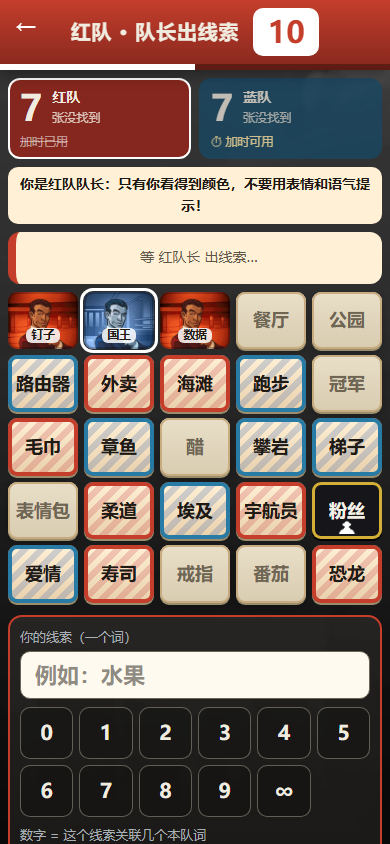
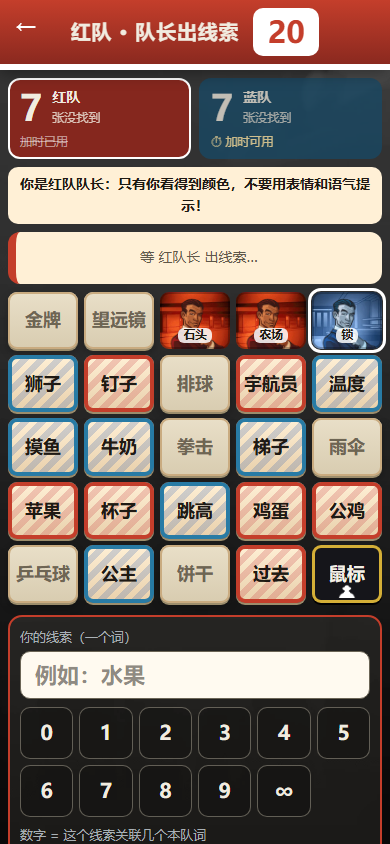
行动代号：补齐新版官方美术并验证手机横竖屏特效

diff --git a/scripts/verify-cn-browsers.ts b/scripts/verify-cn-browsers.ts
@@ -108,6 +108,9 @@ try {
   }));
   assert.ok((evidence.at(-1) as { fourCharacterWordFits: boolean }).fourCharacterWordFits, 'Four-character word clipped');
   for (let i = 0; i < 4; i++) await shot(pages[i], ["red-captain", "red-operative", "blue-captain", "blue-operative"][i]);
+  await pages[1].setViewportSize({ width: 360, height: 780 });
+  await privacy(); await shot(pages[1], "phone-360-board");
+  await pages[1].setViewportSize({ width: 390, height: 844 });
   const before = await pages[1].getByTestId("cn-role").innerText();
   await pages[1].reload(); await pages[1].getByTestId("cn-role").waitFor();
   assert.equal(await pages[1].getByTestId("cn-role").innerText(), before);
@@ -126,13 +129,31 @@ try {
   const timed = await status();
   await pages[0].locator(".cn-timer.hurry").waitFor({ timeout: 22000 });
   await shot(pages[0], "last-ten-seconds");
-  await wait(async () => (await status()) !== timed, 16000);
+  await wait(async () => (await status()) !== timed, 25000);
   t = await clue("inf"); await privacy(); await reveal(t, "neutral");
   await wait(async () => (await status()) !== t);
   t = await clue("inf");
   await wait(async () => (await status()) !== t, 34000);
-  t = await clue("inf"); await reveal(t, "assassin");
+  t = await clue("inf");
+  const winner = await operative(t === "red" ? "blue" : "red");
+  await reveal(t, "assassin");
   for (const p of pages) await p.getByTestId("cn-result").waitFor();
+  await pages[1].getByTestId("cn-fx-assassin").waitFor();
+  await shot(pages[1], "phone-assassin-fx");
+  await winner.getByTestId("cn-fx-party").waitFor();
+  const winnerViewport = winner.viewportSize()!;
+  await winner.setViewportSize({ width: 360, height: 780 });
+  await shot(winner, "phone-360-victory-fx");
+  await winner.setViewportSize({ width: 844, height: 390 });
+  await shot(winner, "phone-landscape-victory-fx");
+  const sub = (await winner.locator('.cn-fx .cn-fx-sub').boundingBox())!;
+  const tap = (await winner.locator('.cn-fx .cn-fx-tap').boundingBox())!;
+  assert.ok(sub.y + sub.height + 4 < tap.y, "Landscape result text overlaps continue hint");
+  await winner.setViewportSize(winnerViewport);
+  for (const p of pages) {
+    const fx = p.locator('.cn-fx');
+    if (await fx.count()) await fx.click();
+  }
   await shot(pages[1], "result"); await click(pages[0], "cn-next");
   await pages[0].getByTestId("cn-mode-random").waitFor(); await click(pages[0], "cn-mode-random");
   await click(pages[0], "cn-start");
@@ -141,6 +162,10 @@ try {
   const goals = await (await captain(t)).locator(`.cn-card[data-role="${t}"]`).count();
   for (let i = 0; i < goals; i++) await reveal(t, t);
   for (const p of pages) await p.getByTestId("cn-result").waitFor();
+  for (const p of pages) {
+    const fx = p.locator('.cn-fx');
+    if (await fx.count()) await fx.click();
+  }
   await shot(pages[1], "random-captain-win");
   assert.deepEqual(errors, []);
   writeFileSync(`${out}/evidence.json`, JSON.stringify(evidence, null, 2));

diff --git a/apps/web/src/cn/cn.css b/apps/web/src/cn/cn.css
@@ -1155,3 +1155,13 @@ html.cn-shake body {
   .cn-fb, .cn-fx, .cn-fx *, html.cn-shake body { animation: none !important; }
   .cn-confetti { display: none; }
 }
+
+/* 手机横屏：给底部继续提示留出空间，避免与结算说明重叠。 */
+@media (max-height: 500px) and (orientation: landscape) {
+  .cn-fx { padding: 12px 20px 48px; }
+  .cn-fx .cn-fx-emoji { font-size: 48px; line-height: 1.15; }
+  .cn-fx .cn-fx-big { font-size: 72px; }
+  .cn-fx .cn-fx-sub { font-size: 16px; margin-top: 10px; }
+  .cn-fx .cn-fx-skull { font-size: 64px; line-height: 1.1; }
+  .cn-fx .cn-fx-tap { bottom: calc(10px + env(safe-area-inset-bottom)); }
+}

diff --git a/docs/handoff/行动代号_50a新版美术上线_2026-10-21.md b/docs/handoff/行动代号_50a新版美术上线_2026-10-21.md
@@ -1,0 +1,211 @@
+# 行动代号：50a023c 新版美术接入与手机验收（2026-10-21）
+
+基线：已上线 `50a023c`。当前分支已合入该版本与最新 main，不回退 3 分钟出线索 / 3 分钟猜词 / 一张 +1 分钟加时卡、最后 20 秒提示、胜利/刺客特效、音效震动与翻牌反馈。
+
+## 变更
+
+- 接入已完成并经用户认可的官方漫画特工、路人、刺客与对应场景、城市背景、大厅封面；共 12 个 WebP，175986 字节，全部本地提供。
+- 来源 URL、原尺寸、字节数与 SHA-256：`apps/web/public/assets/codenames/official-sources.json`。用户已在对话允许采用原游戏美术。
+- 保留手机布局、字号、按钮位置及玩法。相对 50a023c，产品改动只在 cn.css 美术与短屏适配，以及 Codenames.tsx 结算后「所有身份已公开」的说明。
+- 实测发现横屏胜利说明与继续提示重叠，增加高度 ≤500px 横屏的图标/文字尺寸和间距规则；新增边界断言证实不重叠。
+- 规则引擎、服务器、协议相对本次基线无修改。DEFAULT_TIMING 保持 180000/180000/60000。
+- 浏览器脚本兼容新版结束特效，并在游戏结束前记住胜方身份；不在已统一显示结算文案后寻找「猜词队员」。
+
+## 手机证据
+
+`docs/codenames/screens/`：4 身份原有截图及 phone-360-board.png、phone-assassin-fx.png、phone-360-victory-fx.png、phone-landscape-victory-fx.png。覆盖 360×780、390×844 与 844×390；截图使用 screenshot-check 非空白像素验证。均为 Chromium 模拟视口，不冒称真机 Safari。
+
+## 验收结果
+
+- build / typecheck：退出码 0。
+- 全仓：384/384（单 worker，20 秒单项限制，未删改断言）。
+- CN 协议：12 组通过；CN 浏览器：4 独立会话、2 局，隐私、刷新、两种超时、加时、两种队长及两种结束均通过。
+- DBD capture：197/197；本工作目录 5174 下手机操作 64/64；三个回放事件/哈希一致。
+- 合并较早 main 时已完成 LAN 协议/两局五浏览器/3/4/5 人大厅，MA 2/3/4 人各四场。最新 50a023c 本身不变更这些规则与服务器；本次无新 MA/DBD 产品修改。
+- 首次新增 FX 脚本在结束后查找身份失败，修正后完整两局复跑通过。失败记录保留在本机 output/cn-art-50a/browsers.txt；最终结果见下方。
+
+## 发布
+
+用户此前已授权加入现有桌游网站并确认当时无人玩。此次发布前再次读取线上健康检查：版本 50a023c，rooms/maRooms/cnRooms 均为 0。
+本报告提交时准备部署；发布后会检查正式 /api/health 版本、四人开局、官方美术、隐私和完整结束，截图保存 screens/live/。
+
+## 真实输出
+
+### 构建
+
+```text
+> dbd-boardgame-private@0.2.2 build
+> vite build --config apps/web/vite.config.ts
+
+vite v8.3.4 building client environment for production...
+transforming...
+✓ 119 modules transformed.
+rendering chunks...
+computing gzip size...
+dist/web/index.html                            0.66 kB │ gzip:   0.40 kB
+dist/web/assets/MobilePreview-BbSlgr20.css     4.64 kB │ gzip:   1.54 kB
+dist/web/assets/Codenames-BNkVOBEB.css        18.73 kB │ gzip:   4.89 kB
+dist/web/assets/MagicalAthlete-CHOwTzz3.css   28.30 kB │ gzip:   6.67 kB
+dist/web/assets/index-DhkZdj65.css            74.68 kB │ gzip:  17.90 kB
+dist/web/assets/Codenames-BwjqeYdd.js         26.46 kB │ gzip:   9.53 kB
+dist/web/assets/MagicalAthlete-B11qnon8.js    55.47 kB │ gzip:  19.26 kB
+dist/web/assets/MobilePreview-DrF-oY0R.js     66.17 kB │ gzip:   7.08 kB
+dist/web/assets/index-Cb2Z0m_Q.js            849.48 kB │ gzip: 194.03 kB
+
+✓ built in 1.74s
+[plugin builtin:vite-reporter] 
+(!) Some chunks are larger than 500 kB after minification. Consider:
+- Using dynamic import() to code-split the application
+- Use build.rolldownOptions.output.codeSplitting to improve chunking: https://rolldown.rs/reference/OutputOptions.codeSplitting
+- Adjust chunk size limit for this warning via build.chunkSizeWarningLimit.
+```
+
+### 类型
+
+```text
+> dbd-boardgame-private@0.2.2 typecheck
+> tsc --noEmit
+```
+
+### 384 测试
+
+```text
+> dbd-boardgame-private@0.2.2 test
+> vitest run --maxWorkers=1 --testTimeout=20000
+
+
+ RUN  v5.0.5 E:/DBD-Codenames-Codex
+
+
+ Test Files  20 passed (20)
+      Tests  384 passed (384)
+   Start at  15:21:30
+   Duration  142.45s (tests 99%, import 1%)
+```
+
+### CN 浏览器
+
+```text
+> dbd-boardgame-private@0.2.2 verify:cn-browsers
+> tsx scripts/verify-cn-browsers.ts
+
+CN_BROWSERS_PASS {"contexts":4,"phones":2,"games":2,"goals":9,"privacy":true,"refresh":true,"timeout":true}
+```
+
+### CN 协议
+
+```text
+> dbd-boardgame-private@0.2.2 verify:cn-protocol
+> tsx scripts/verify-cn-protocol.ts
+
+✔ 建房成功，房间号 T7WM
+✔ 5 人加入并分队；只有房主能开始
+✔ 自选队长：没有队长不能开局，同队只能 1 名队长，开局后队长为报名者
+✔ 隐私：两名队长收到 25 张身份；3 名队员收到的所有数据里没有任何未揭晓身份/刺客/种子
+✔ 服务器拒绝桌面词线索、拒绝队员代替队长出线索
+✔ N+1：提示 1 翻对 2 张后自动换边；队长/对方不能操作；未翻牌不能结束；同时提交只成功一次
+✔ 队长 3 秒不出线索 → 服务器自动换边（实测 2.9 秒）
+✔ 0 线索不限次数；加时 +2 秒只能一次、队长不能按；猜词超时自动换边（含加时实测 5.8 秒）
+✔ 断开后用 token 重连回原座位，棋盘一致
+✔ 服务器重启后按存档重放恢复（棋盘、回合、加时状态一致）
+✔ ∞ 线索下翻到刺客 → 该队立即失败；结束后所有人看到全部身份
+✔ 再来一局：保留队伍、清空队长；随机队长模式连开 6 局，红队抽到过 3 名不同队长
+
+全部通过：12 组检查
+```
+
+### 197 capture
+
+```text
+RUN  v5.0.5 E:/DBD-Codenames-Codex
+
+
+ Test Files  12 passed (12)
+      Tests  197 passed (197)
+   Start at  15:20:27
+   Duration  10.93s (tests 77%, import 14%, transform 5%, setup 3%, worker 1%)
+
+    Isolate  12 workers spawned · ~220ms startup each (spawn + environment, per file)
+             at least ~2.42s faster with isolate: false — reuses workers across files instead of one per file
+```
+
+### 64 手机操作
+
+```text
+UI_WIRING_PASS board_ace_1 1
+UI_WIRING_PASS board_dwight_3 1
+UI_WIRING_PASS board_doctor_1 1
+UI_WIRING_PASS item_toolbox 2
+UI_WIRING_PASS item_commodious_toolbox 2
+UI_WIRING_PASS item_first_aid_kit 2
+UI_WIRING_PASS item_map 2
+UI_WIRING_PASS choice_MAP_REVEAL 2
+UI_WIRING_PASS item_rainbow_map 2
+UI_WIRING_PASS item_flashlight 2
+UI_WIRING_PASS item_firecracker 2
+UI_WIRING_PASS item_skeleton_key 2
+UI_WIRING_PASS item_broken_key 2
+UI_WIRING_PASS item_dull_key 2
+UI_WIRING_PASS board_doctor_3 1
+UI_WIRING_PASS board_dwight_2 1
+UI_WIRING_PASS board_claudette_1 1
+UI_WIRING_PASS board_meg_3 1
+UI_WIRING_PASS choice_PHANTASM_TARGET 1
+UI_WIRING_PASS power_hillbilly 2
+UI_WIRING_PASS power_hag 2
+UI_WIRING_PASS board_ace_2 2
+UI_WIRING_PASS board_jake_1 1
+UI_WIRING_PASS board_dwight_1 4
+UI_WIRING_PASS board_meg_2 1
+UI_WIRING_PASS board_claudette_2 2
+UI_WIRING_PASS board_claudette_3 1
+UI_WIRING_PASS board_jake_2 3
+UI_WIRING_PASS board_jake_3 1
+UI_WIRING_PASS board_nea_1 2
+UI_WIRING_PASS board_nea_2 1
+UI_WIRING_PASS board_nea_3 1
+UI_WIRING_PASS board_ace_3 1
+UI_WIRING_PASS board_feng_min_2 2
+UI_WIRING_PASS board_feng_min_3 3
+UI_WIRING_PASS board_trapper_1 2
+UI_WIRING_PASS board_trapper_2 1
+UI_WIRING_PASS board_trapper_3 2
+UI_WIRING_PASS board_wraith_1 1
+UI_WIRING_PASS board_wraith_2 1
+UI_WIRING_PASS board_hillbilly_1 1
+UI_WIRING_PASS board_hillbilly_2 1
+UI_WIRING_PASS board_hillbilly_3 2
+UI_WIRING_PASS board_nurse_1 1
+UI_WIRING_PASS board_nurse_2 1
+UI_WIRING_PASS board_nurse_3 1
+UI_WIRING_PASS board_hag_2 1
+UI_WIRING_PASS board_hag_3 1
+UI_WIRING_PASS board_doctor_2 1
+UI_WIRING_PASS power_trapper 2
+UI_WIRING_PASS power_wraith 2
+UI_WIRING_PASS power_nurse 2
+UI_WIRING_PASS power_doctor 2
+UI_WIRING_PASS board_meg_1 2
+UI_WIRING_PASS board_feng_min_1 2
+UI_WIRING_PASS board_wraith_3 1
+UI_WIRING_PASS choice_REPLAN 1
+UI_WIRING_PASS board_hag_1 1
+UI_WIRING_PASS choice_CARRY_REROUTE 1
+UI_WIRING_PASS out_of_turn_commodious_toolbox 2
+UI_WIRING_PASS out_of_turn_first_aid_kit 2
+UI_WIRING_PASS out_of_turn_map 2
+UI_WIRING_PASS out_of_turn_rainbow_map 2
+UI_WIRING_PASS shared_seat_inventory 2
+MOBILE_INTERFACES_PASS 64
+```
+
+### 回放
+
+```text
+> dbd-boardgame-private@0.2.2 verify:replays
+> tsx scripts/verify-replays.ts
+
+Replay 1701: survivor, every event reproduced, SHA-256 003023f949f2c4873d031fac0c3f2c32eea1ef48861459f02a2bd9566f5a066a
+Replay 2903: survivor, every event reproduced, SHA-256 957d9d25558d5622a6b47d08c42d178fb6db55ac0f298e40658e2e97e570a91c
+Replay 4111: killer, every event reproduced, SHA-256 2fa6a8fa6f5eabbdcc72d83b5683cb6b81b1a0b22a6aedbbd64d9bad84e4463f
+```
